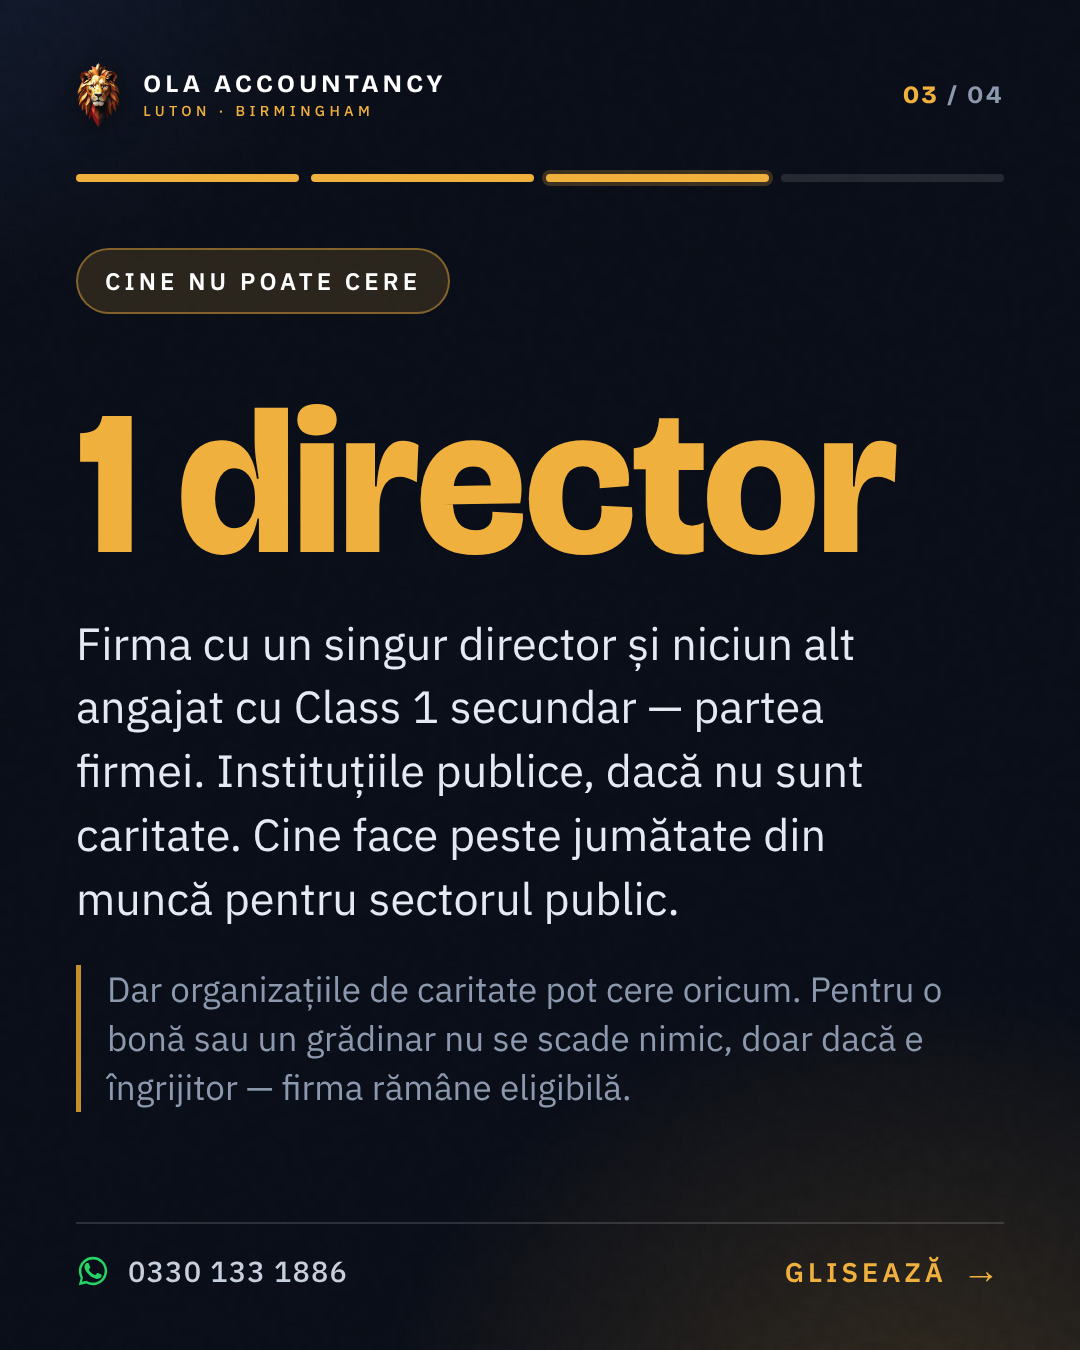
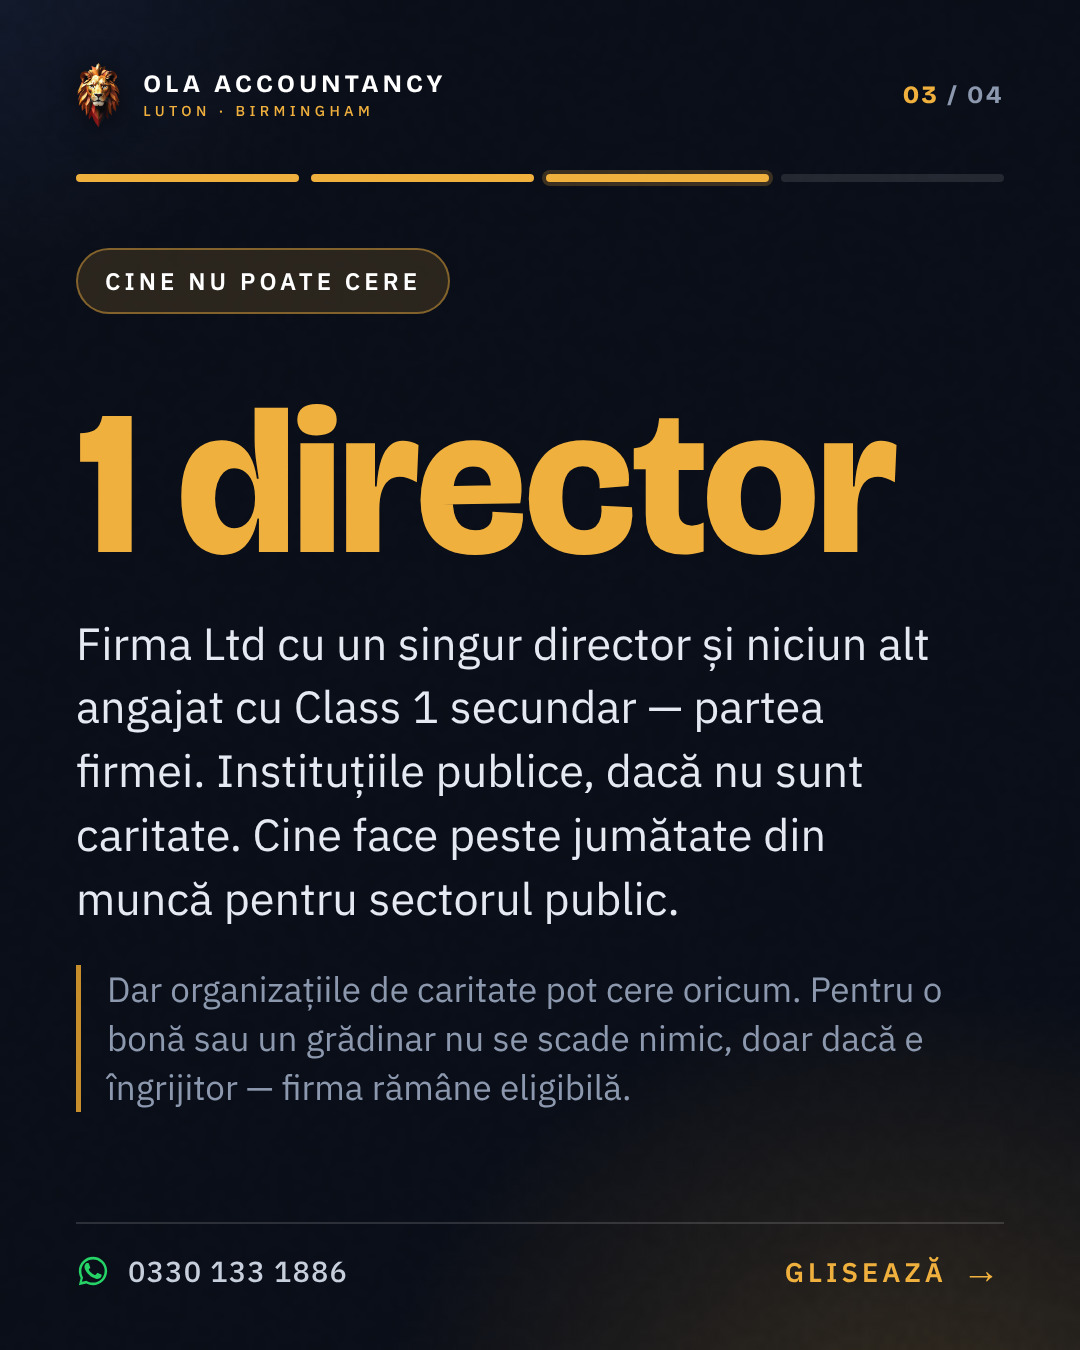
Employment Allowance: four faults from the independent fact-checker
Round three. Captions (captions.py), one Romanian card (topics.py) and the
two Romanian card-3 frames. Rounds one and two are otherwise untouched.

1 De minimis state aid was written as a live, current-year bar — and the
  previous round's instruction caused it, by quoting the GOV.UK passage
  without its scope. NICA 2014 s.2(4B)-(4G) are shown on legislation.gov.uk
  as "omitted (6.4.2025)" by the National Insurance Contributions (Secondary
  Class 1 Contributions) Act 2025 s.3(3)(a), in force 6 April 2025. GOV.UK
  carries the test only on "Check if you can claim for previous years"; the
  current-year eligibility page does not mention state aid at all, and
  how-to-claim asks the question only "If you're claiming for a previous
  year". So it is no bar on a 2026/27 claim. It still bites on claims for
  2024 to 2025 and earlier, which is the backdating these posts encourage,
  so the point is kept with that scope and only that scope. The LinkedIn
  closing line no longer reads "subject to that Northern Ireland state-aid
  cap".
2 "Silently loses up to £10,500" was unsourced and contradicted by its own
  post two paragraphs later. HMRC's claiming guidance s.8 allows a claim up
  to 4 years after the end of the tax year, and s.7 sets a late claim's
  credit against PAYE liabilities or repays it. Nothing is lost; the
  sentence is gone from LinkedIn and from SCOPE.from_when.
3 The Romanian single-director bar reached readers it does not apply to.
[…]

Changed region(s): [[0.1833, 0.4667, 0.8556, 0.4978]]

diff --git a/pipeline/carousel/topics.py b/pipeline/carousel/topics.py
@@ -989,7 +989,7 @@ EMPLOYMENT_ALLOWANCE = dict(
          say="Se scad până la <b>£10.500</b> din National Insurance-ul Class 1 plătit de firmă într-un an fiscal. Se cere din programul de salarii, pentru un singur stat de plată — și se cere din nou la fiecare an fiscal.",
          note="Nu se reportează de la un an la altul. Dacă n-ai cerut-o deloc, se poate cere retroactiv până la 4 ani după anul fiscal respectiv."),
     dict(type="step", step="Cine NU poate cere", fig="1 director",
-         say="Firma cu un singur director și niciun alt angajat cu Class 1 secundar — partea firmei. Instituțiile publice, dacă nu sunt caritate. Cine face peste jumătate din muncă pentru sectorul public.",
+         say="Firma Ltd cu un singur director și niciun alt angajat cu Class 1 secundar — partea firmei. Instituțiile publice, dacă nu sunt caritate. Cine face peste jumătate din muncă pentru sectorul public.",
          note="Dar organizațiile de caritate pot cere oricum. Pentru o bonă sau un grădinar nu se scade nimic, doar dacă e îngrijitor — firma rămâne eligibilă."),
   ],
   CTA_RO=dict(type="cta",
@@ -1017,6 +1017,21 @@ EMPLOYMENT_ALLOWANCE = dict(
     phone=PHONE, disc="General information. For your own situation, speak to an accountant."),
 
   SOURCES=[
+    ("The single-director bar is confined to BODIES CORPORATE and must never be written "
+     "in a way that reaches a sole trader or a partnership. HMRC: \"Limited companies "
+     "cannot claim Employment Allowance if they have just one director and that director "
+     "is the only employee liable for secondary Class 1 National Insurance\" and, "
+     "explicitly, \"This only applies to limited companies. If you're self-employed, this "
+     "does not apply to you.\" NICA 2014 s.2(4A) opens \"A body corporate (\u2018C\u2019)\". The "
+     "English \"a company with a single director\" maps correctly; Romanian \"firmă\" does "
+     "NOT \u2014 it covers a sole trader and a partnership alike, so a bare \"firma cu un "
+     "singur director\" told a self-employed reader that a bar applied to them which does "
+     "not. That error was published on 7 November 2026 and corrected the same day. Every "
+     "Romanian card, alt text and caption says \"firma Ltd\", never a bare \"firma\". HMRC's "
+     "further guidance \u00a77 and \u00a78 are the other half of the same point: a self-employed "
+     "person and a partnership CAN claim where they employ someone and pay employer "
+     "Class 1",
+     "https://www.gov.uk/government/publications/employment-allowance-more-detailed-guidance/single-director-companies-and-employment-allowance-further-employer-guidance", "2026-11-07"),
     ("Employment Allowance is worth up to £10,500 off the employer's Class 1 National "
      "Insurance; a single-director company cannot claim where that director is the only "
      "employee liable for secondary Class 1 National Insurance; an employer must do less "
@@ -1057,28 +1072,44 @@ EMPLOYMENT_ALLOWANCE = dict(
      "there is no limit.\" Previous rates: £10,500 for 2025 to 2026, and £5,000 for each "
      "year between 6 April 2022 and 5 April 2025",
      "https://www.gov.uk/claim-employment-allowance/claim-for-past-years", "2026-11-06"),
-    ("De minimis state aid is an OUTRIGHT BAR on claiming and it sits on the same "
-     "claim-for-past-years page this topic cites, so no caption that promotes backdating "
-     "may omit it and no caption may assert \"UK-wide\" without it: \"For some businesses, "
-     "Employment Allowance counts as 'de minimis state aid'... There's a limit to how much "
-     "de minimis state aid these businesses can get over a 3-year period. If they exceed "
-     "the limit, they cannot claim Employment Allowance.\" The page says the limits are "
-     "\"likely to apply to your business if both of the following are true: your business "
-     "is located in Northern Ireland; your business makes or sells goods or wholesale "
-     "electricity\", and gives the 3-year limits as 20,000 euros for agricultural products "
-     "up to 200,000 euros for industrial and other businesses",
-     "https://www.gov.uk/claim-employment-allowance/claim-for-past-years", "2026-11-07"),
+    ("De minimis state aid was REPEALED for 2025 to 2026 onwards and is NEVER written as a "
+     "live current-year bar. It was published as one on 7 November 2026 \u2014 on the LinkedIn "
+     "caption and in the closing \"UK-wide, for the current tax year \u2014 subject to that "
+     "Northern Ireland state-aid cap\" \u2014 because the previous instruction quoted the "
+     "GOV.UK passage WITHOUT its scope. The scope is part of the rule. NICA 2014 "
+     "s.2(4F)-(4G) are shown on legislation.gov.uk as \"omitted (6.4.2025)\", by the "
+     "National Insurance Contributions (Secondary Class 1 Contributions) Act 2025 "
+     "s.3(3)(a), which reads: \"In section 2 (exceptions), omit subsections (4B) to (4G) "
+     "(secondary Class 1 liability limit of £100,000 or more and receipt of de minimis "
+     "state aid)\", in force 6 April 2025. GOV.UK carries the state-aid test ONLY on "
+     "\"Check if you can claim for previous years\" and not on the current-year eligibility "
+     "page, which does not mention state aid at all; the how-to-claim page asks the "
+     "state-aid question only \"If you're claiming for a previous year\". So there is no "
+     "state-aid cap on a 2026/27 claim, \"UK-wide\" and the current tax year are never "
+     "qualified by one, and the words \"outright bar\" are never attached to it in the "
+     "present tense. It DOES still bite on claims for 2024 to 2025 and earlier \u2014 exactly "
+     "the backdating this topic encourages \u2014 so the point is kept with that scope and only "
+     "that scope: \"For some businesses, Employment Allowance counts as 'de minimis state "
+     "aid'... There's a limit to how much de minimis state aid these businesses can get "
+     "over a 3-year period. If they exceed the limit, they cannot claim Employment "
+     "Allowance\", \"likely to apply to your business if both of the following are true: "
+     "your business is located in Northern Ireland; your business makes or sells goods or "
+     "wholesale electricity\", with 3-year limits from 20,000 euros for agricultural "
+     "products to 200,000 euros for industrial and other businesses",
+     "https://www.legislation.gov.uk/ukpga/2025/11/section/3", "2026-11-07"),
   ],
   SCOPE=dict(
     nation="All of the UK — employer Class 1 National Insurance is a UK-wide HMRC charge "
-           "with no devolved variation. But \"UK-wide\" is never written flat, because one "
-           "bar is territorial: GOV.UK's claim-for-past-years page stops a business that has "
-           "exceeded its 3-year de minimis state aid limit from claiming at all, and says "
-           "that limit is likely to apply where the business is BOTH located in Northern "
-           "Ireland AND makes or sells goods or wholesale electricity. It is a Northern "
-           "Ireland carve-out on an otherwise UK-wide allowance, it bites on exactly the "
-           "backdated claims this topic encourages, and it was read at primary source on "
-           "7 November 2026. Any caption with the headroom to carry it carries it.",
+           "with no devolved variation, and nothing territorial qualifies a CURRENT-YEAR claim. "
+           "\"UK-wide, for the current tax year\" therefore stands unqualified. The 7 November 2026 "
+           "version of this field, which told captions to hang a Northern Ireland state-aid cap on "
+           "it, was wrong: the de minimis state aid condition was repealed from 6 April 2025 — NICA "
+           "2014 s.2(4B)-(4G) omitted by the National Insurance Contributions (Secondary Class 1 "
+           "Contributions) Act 2025 s.3(3)(a) — GOV.UK carries it only on the claim-for-past-years "
+           "page, and the current-year eligibility page does not mention state aid at all. The cap "
+           "is a Northern Ireland carve-out on BACKDATED claims for 2024 to 2025 and earlier and on "
+           "nothing else, so it is written only where the sentence is about those years. Read at "
+           "primary source on 7 November 2026.",
     category="Employers paying employer Class 1 National Insurance who do less than half their work in the public sector — an employer at exactly 50% is entitled, because the test is MORE than 50% — and charities including community amateur sports clubs. A public authority is NOT in this category: NICA 2014 s.2(1) bars \"a public authority which is not a charity\", s.2(2) defines one as a person whose activities involve, wholly or mainly, the performance of functions of a public nature, and HMRC's further guidance names local authorities, town councils and parish councils as ineligible unless they have charitable status. The share-of-work test is part of what makes a body a public authority; it is not a condition on which a public body may claim, so a parish council is barred whatever proportion of its work is public-facing, and \"businesses and public bodies doing less than half their work in the public sector\" is never written as a who-CAN-claim line. The charity carve-out was read at primary source on 6 November 2026: a registered charity can claim even when it is wholly or mainly carrying out functions of a public nature, so the public-sector exclusion on every card and caption now carries it.",
     excluded="A company with one director and no other employee liable for secondary Class 1 "
              "National Insurance cannot claim at all — that is the single commonest exclusion "
@@ -1089,22 +1120,34 @@ EMPLOYMENT_ALLOWANCE = dict(
              "unless it is a charity however little of its work faces the public. Two different kinds "
              "of exclusion must stay apart, as GOV.UK and the statute keep them apart. The "
              "employer-level bar — NICA 2014 s.2(1) and s.2(4A) — is who \"cannot qualify\": the "
-             "public authority and the single-director company. Separately, an EMPLOYEE can be "
+             "public authority and the single-director company; s.2(4A) opens \"A body corporate\", "
+             "so it is never written in a way that reaches a sole trader or a partnership, and the "
+             "Romanian says \"firma Ltd\", never a bare \"firma\". Separately, an EMPLOYEE can be "
              "outside the claim while the employer stays eligible and keeps claiming on everyone "
-             "else, because NICA 2014 s.2(3) and s.2(4) make these \"excluded liabilities\": the "
+             "else — but ONLY where non-excluded liabilities are left, and that condition is never "
+             "dropped: NICA 2014 s.1(2)(b) caps the allowance at the total of the liabilities "
+             "\"which are not excluded liabilities\", and HMRC's eligibility guidance section 5 says "
+             "flatly that \"Employers of domestic staff (for example, cleaners, gardeners or nannies) "
+             "will be unable to claim the Employment Allowance, as the employees are all being "
+             "employed in a personal capacity to support the running of a household\". An employer "
+             "whose only employees are domestic staff has no eligibility left at all, so a flat "
+             "\"the employer stays eligible\" — published on 7 November 2026 on LinkedIn, Pinterest "
+             "and both Romanian long captions — is wrong without it. NICA 2014 s.2(3) and s.2(4) "
+             "make these the \"excluded liabilities\": the "
              "earnings of an employee within off-payroll working rules, and someone employed for "
              "personal, household or domestic work such as a nanny or gardener, unless that person "
              "is a care or support worker. No card or caption puts those two under one \"who cannot "
              "claim\" heading, because that reads as though the nanny were the one barred from "
              "claiming. Within a group of connected companies or connected charities only "
              "one of them may claim, and an employer running several payrolls may claim against only one of "
-             "them. A business with no employees at all is outside it entirely. And a business that has "
-             "exceeded its de minimis state aid limit over a 3-year period cannot claim — GOV.UK "
-             "puts that at its most likely where the business is both located in Northern Ireland "
-             "and makes or sells goods or wholesale electricity. That one is an outright bar, not "
-             "an excluded liability, and it belongs with the public authority and the "
-             "single-director company rather than with the nanny.",
-    from_when="Claimed through payroll software for EACH tax year separately — never automatic and never carried forward, so an employer who claimed last year and assumed it rolled over loses up to £10,500. A claim never made can be backdated up to 4 years after the end of the tax year concerned — but an earlier year is not claimed on today's terms: the allowance is £10,500 for 2025 to 2026 onwards and was £5,000 for each year between 6 April 2022 and 5 April 2025, and to claim for 2024 to 2025 or earlier the employers' Class 1 National Insurance liabilities must have been less than £100,000 in the previous tax year. The £100,000 bar was lifted from April 2025, so from 2025 to 2026 onwards there is no limit."),
+             "them. A business with no employees at all is outside it entirely. And for a BACKDATED "
+             "claim covering 2024 to 2025 or earlier — and only then — a business that has exceeded "
+             "its de minimis state aid limit over a 3-year period cannot claim; GOV.UK puts that at "
+             "its most likely where the business is both located in Northern Ireland and makes or "
+             "sells goods or wholesale electricity. It was repealed from 6 April 2025, GOV.UK "
+             "carries it only on the claim-for-past-years page, and it is therefore NOT a bar on a "
+             "2026/27 claim and is never written as one.",
+    from_when="Claimed through payroll software for EACH tax year separately — never automatic and never carried forward, so a fresh EPS claim is needed every year. NOTHING IS LOST by missing one, and no card or caption says it is: HMRC's claiming guidance section 8 allows a claim \"up to 4 years after the end of the tax year in which the allowance applies\", and section 7 says a late claim leaves a credit on the PAYE record which HMRC sets against PAYE debt or other liabilities, or repays. The 7 November 2026 LinkedIn caption said an employer who assumed it rolled over \"silently loses up to £10,500\" — unsourced, contradicted by the 4-year backdating two paragraphs later in the same post, and removed. A claim never made can be backdated up to 4 years after the end of the tax year concerned — but an earlier year is not claimed on today's terms: the allowance is £10,500 for 2025 to 2026 onwards and was £5,000 for each year between 6 April 2022 and 5 April 2025, and to claim for 2024 to 2025 or earlier the employers' Class 1 National Insurance liabilities must have been less than £100,000 in the previous tax year. The £100,000 bar was lifted from April 2025, so from 2025 to 2026 onwards there is no limit."),
 )
 
 # ==================================================================== 14

diff --git a/pipeline/carousel/captions.py b/pipeline/carousel/captions.py
@@ -672,7 +672,7 @@ Nu vine singură. Se cere din programul de salarii, pentru un singur stat de pla
 Dacă n-ai cerut-o deloc, se poate cere retroactiv până la 4 ani — pentru 2022/23, până pe 5 aprilie 2027. Dar un an vechi are alte condiții: £10.500 e suma din 2025/26 încoace, iar între 6 aprilie 2022 și 5 aprilie 2025 era £5.000 pe an. Pentru 2024/25 sau mai vechi poți cere doar dacă Class 1-ul firmei din anul anterior a fost sub £100.000 — barieră căzută în aprilie 2025, deci din 2025/26 nu mai există limită.
 
 Cine NU poate cere deloc — firma:
-• Firma Ltd cu un singur director, dacă el e singurul angajat cu National Insurance Class 1 secundar — partea firmei, peste Secondary Threshold. Pe cont propriu nu se aplică.
+• Firma Ltd cu un singur director, dacă el e singurul angajat cu National Insurance Class 1 secundar — partea firmei, peste Secondary Threshold.
 • Instituțiile publice fără statut de caritate — primărie, consiliu local sau parohial — oricât de puțin lucrează pentru public.
 • Orice alt angajator cu peste jumătate din muncă pentru sectorul public — dar organizațiile de caritate pot cere oricum.
 • Într-un grup de firme sau de organizații de caritate legate între ele, cere una singură.
@@ -695,7 +695,7 @@ And it is claimed again every single tax year, by Employer Payment Summary. It d
 
 If you never claimed at all, you can go back up to 4 years after the end of the tax year concerned — a 2022 to 2023 claim has to be made by 5 April 2027. But an earlier year is not claimed on today's terms. The allowance is £10,500 for 2025 to 2026 onwards; for each year between 6 April 2022 and 5 April 2025 it was £5,000. And to claim for 2024 to 2025 or earlier, your employers' Class 1 National Insurance liabilities must have been less than £100,000 in the previous tax year. From 2025 to 2026 onwards there is no limit — that bar was lifted in April 2025.
 
-One more bar sits on that past-years page, and nowhere else: for some businesses the allowance counted as de minimis state aid, capped over 3 years, and a business over the cap could not claim — most likely where the business is both located in Northern Ireland and makes or sells goods or wholesale electricity. HMRC asks the state-aid question only if you are claiming for a previous year.
+One more bar sits on that past-years page, and nowhere else: for some businesses the allowance counted as de minimis state aid, capped over 3 years, and a business over the cap could not claim — most likely where the business is both located in Northern Ireland and makes or sells goods or wholesale electricity. HMRC asks the state-aid question only for a previous year.
 
 Who cannot claim at all — the employer. The first is the trap for small companies:
 • A company with a single director who is its only employee liable for secondary Class 1 National Insurance.
@@ -714,7 +714,7 @@ UK-wide, for the current tax year.
 Want your payroll checked against the conditions?""",
  bsky="""Employment Allowance: up to £10,500 off employer Class 1 National Insurance, claimed again every tax year. It never carries forward.""",
  pin_title="Employment Allowance: £10,500 and who cannot claim",
- pin="""UK Employment Allowance takes up to £10,500 off an employer's Class 1 National Insurance in a tax year. It is never automatic and must be claimed again every tax year. Which employers cannot claim: a company whose single director is its only employee liable for secondary Class 1, and an employer doing over half its work in the public sector unless it is a charity. Separately, a nanny or gardener in personal, household or domestic work cannot be included unless they are a care or support worker; an employer of domestic staff alone cannot claim at all.""",
+ pin="""UK Employment Allowance takes up to £10,500 off an employer's Class 1 National Insurance in a tax year. It is never automatic and must be claimed again every tax year. Which employers cannot claim: a company whose single director is its only employee liable for secondary Class 1, and an employer doing over half its work in the public sector unless it is a charity. Separately, a nanny or gardener in personal, household or domestic work cannot be included unless they are a care or support worker; an employer of domestic staff alone cannot claim.""",
  source="gov.uk/claim-employment-allowance/eligibility, /claim-for-past-years, plus HMRC's further employer guidance",
 )
 
